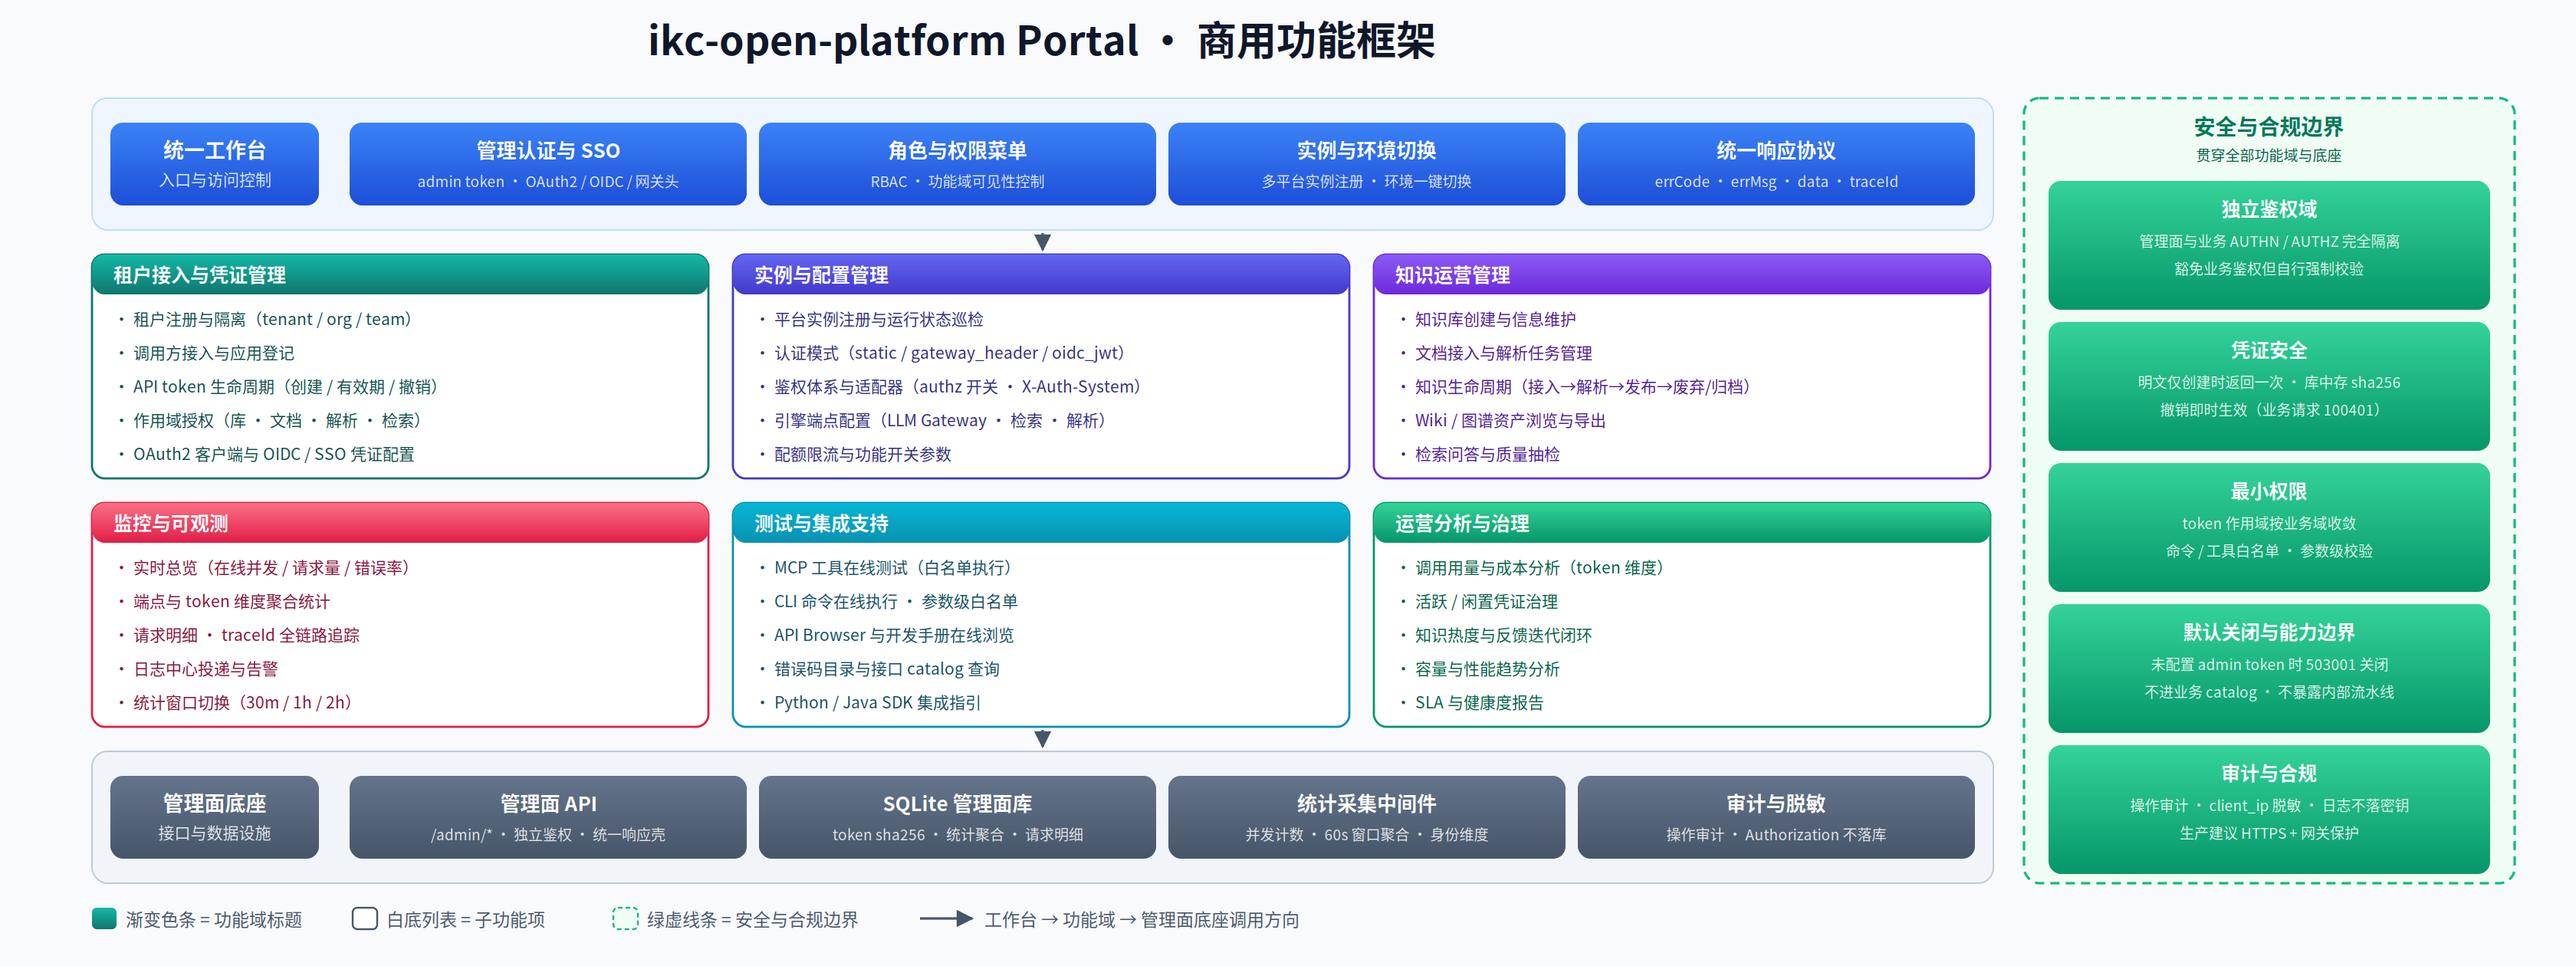
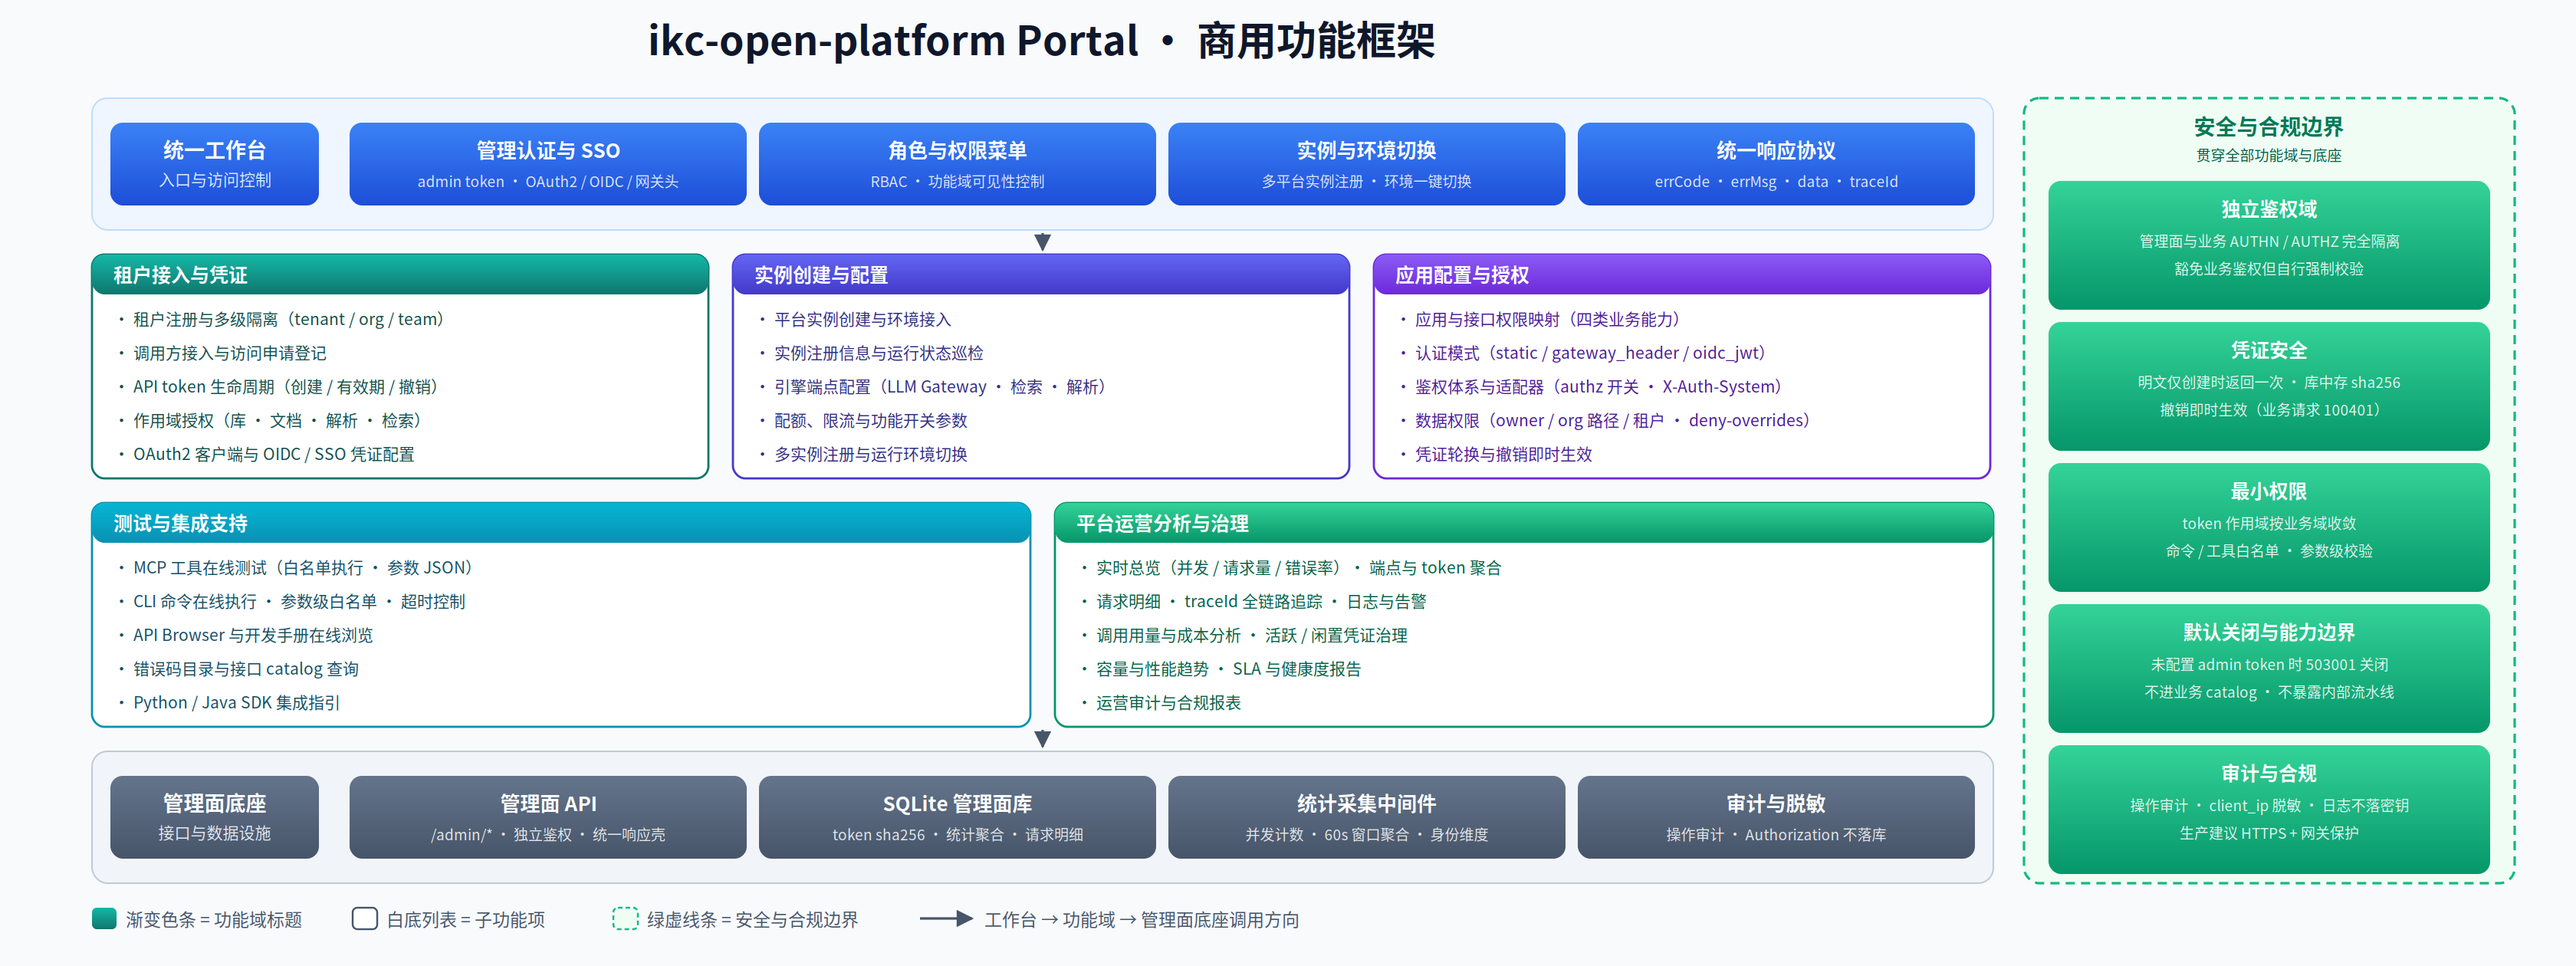
docs: Portal 功能框架图收敛为平台级五功能域（去除知识运营管理）

diff --git a/docs/worklog.md b/docs/worklog.md
@@ -1410,3 +1410,7 @@
 ### 任务：Portal 功能框架图改商用设计视角 v2.0（2026-10-16 续）
 
 - 用户反馈 v1.0 按现状实现（前端框架/功能页面）表达不合适，要求从租户接入、实例配置等设计维度出完整商用功能框架。新建 Portal功能框架图_v2.0.svg/png（1680×630）：顶部统一工作台横带（认证 SSO/RBAC/实例切换/统一协议）+ 3×2 六功能域分组框（租户接入与凭证/实例与配置/知识运营/监控可观测/测试与集成/运营分析与治理，每域 5 子功能）+ 底部管理面底座横带 + 右侧绿虚线「安全与合规边界」五框；去除 P1–P4 实现层术语；v1.0 保留作现状实现快照；PNG 2x 目检干净；仅配图改动，跳过 Claude 只读审查。
+
+### 任务：Portal 功能框架图 v2.0 收敛为五功能域（2026-10-16 续）
+
+- 用户明确平台级 Portal 不含知识运营管理，核心为租户接入、实例创建、应用配置与授权、测试与集成支持、平台级运营分析与治理；v2.0 网格由 3×2 改 3+2：删除知识运营管理域，监控可观测并入平台运营分析与治理（612 宽双框布局），认证/鉴权体系配置从实例域移入应用配置与授权域；PNG 重渲染目检无溢出；仅配图改动，跳过 Claude 只读审查。
